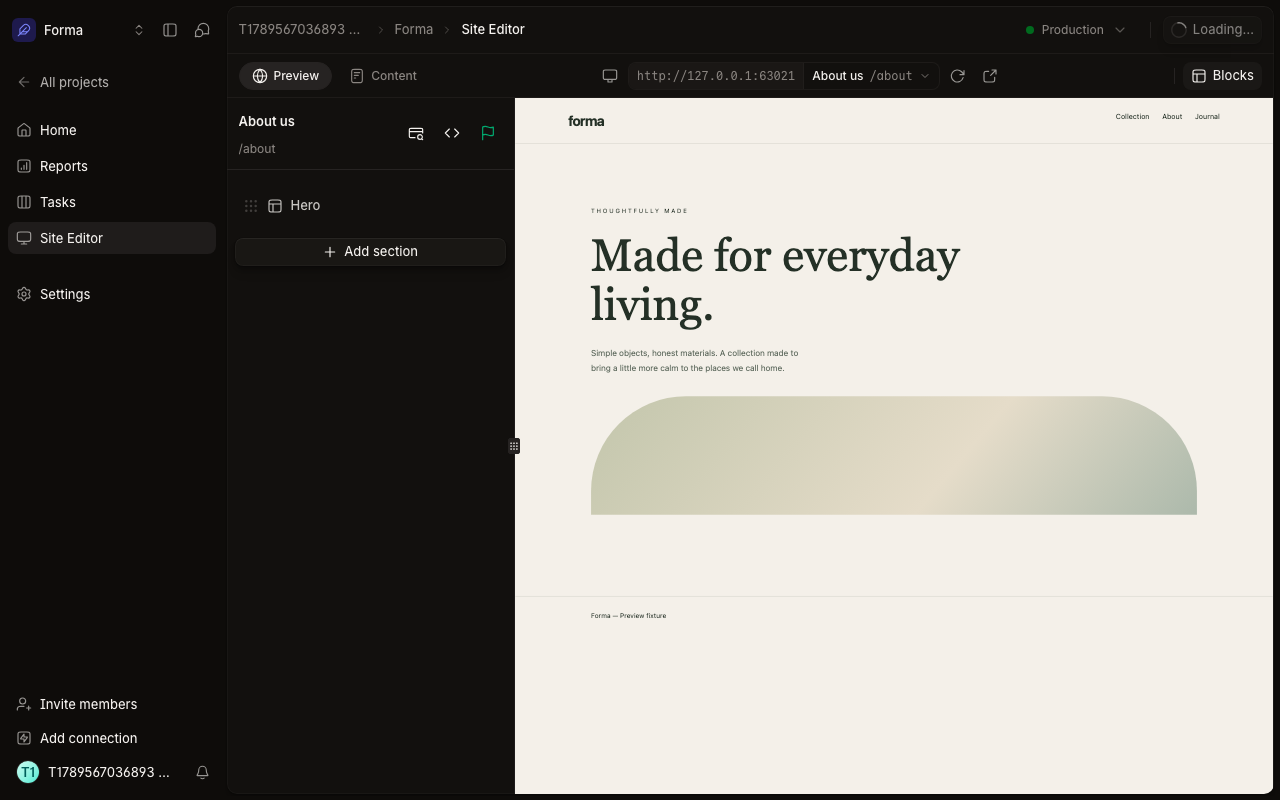
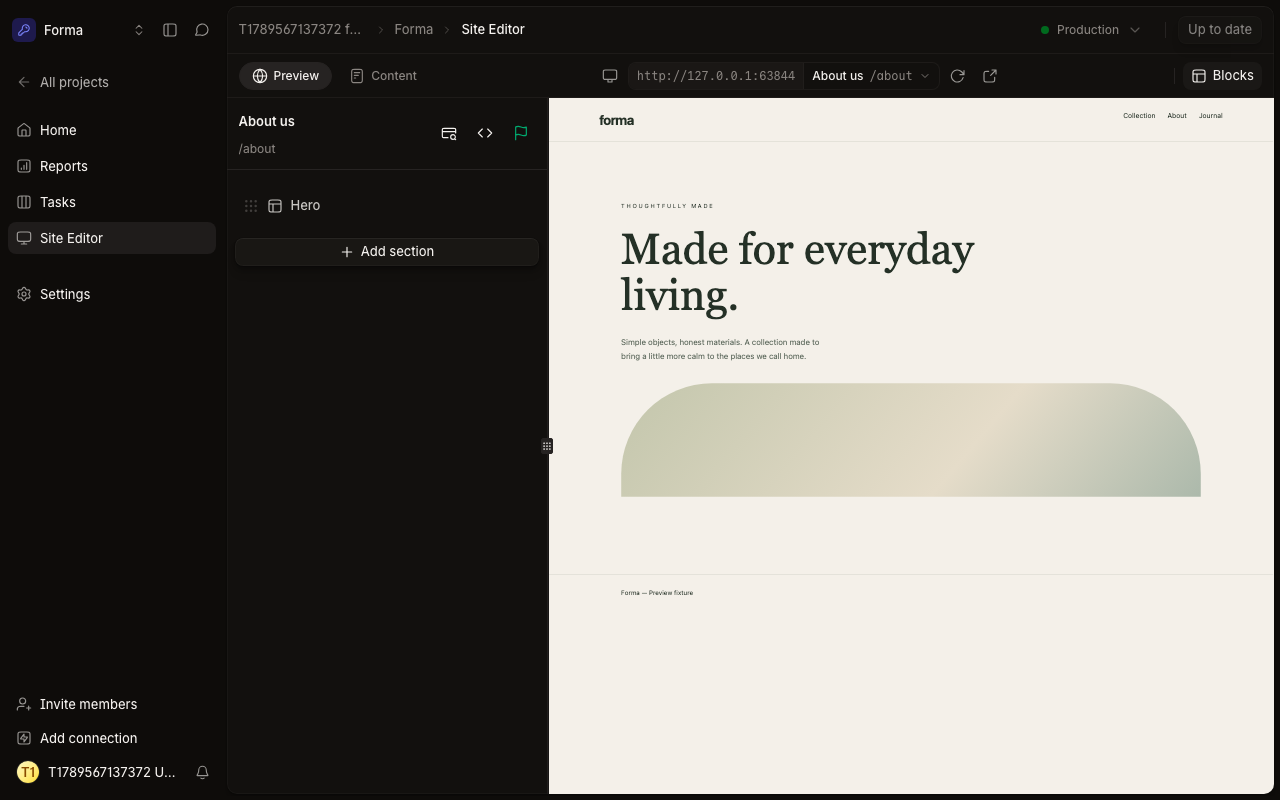
fix(web): use a single bubble for the chat toggle

diff --git a/apps/web/src/components/sidebar/thread-button.tsx b/apps/web/src/components/sidebar/thread-button.tsx
@@ -2,7 +2,7 @@ import { createContext, use, useState, type ReactNode } from "react";
 import { createPortal } from "react-dom";
 import { useSidebar } from "@decocms/ui/components/sidebar.tsx";
 import { mobileSurfaceSearch } from "@/hooks/use-chat-layout-state";
-import { MessageChatCircle } from "@untitledui/icons";
+import { MessageCircle01 } from "@untitledui/icons";
 import { useNavigate } from "@tanstack/react-router";
 import {
   Tooltip,
@@ -62,7 +62,7 @@ function ThreadButton({
             if (isMobile) setOpenMobile(false);
           }}
         >
-          <MessageChatCircle size={16} />
+          <MessageCircle01 size={16} />
         </ToolbarIconButton>
       </TooltipTrigger>
       <TooltipContent side="right">{label}</TooltipContent>
